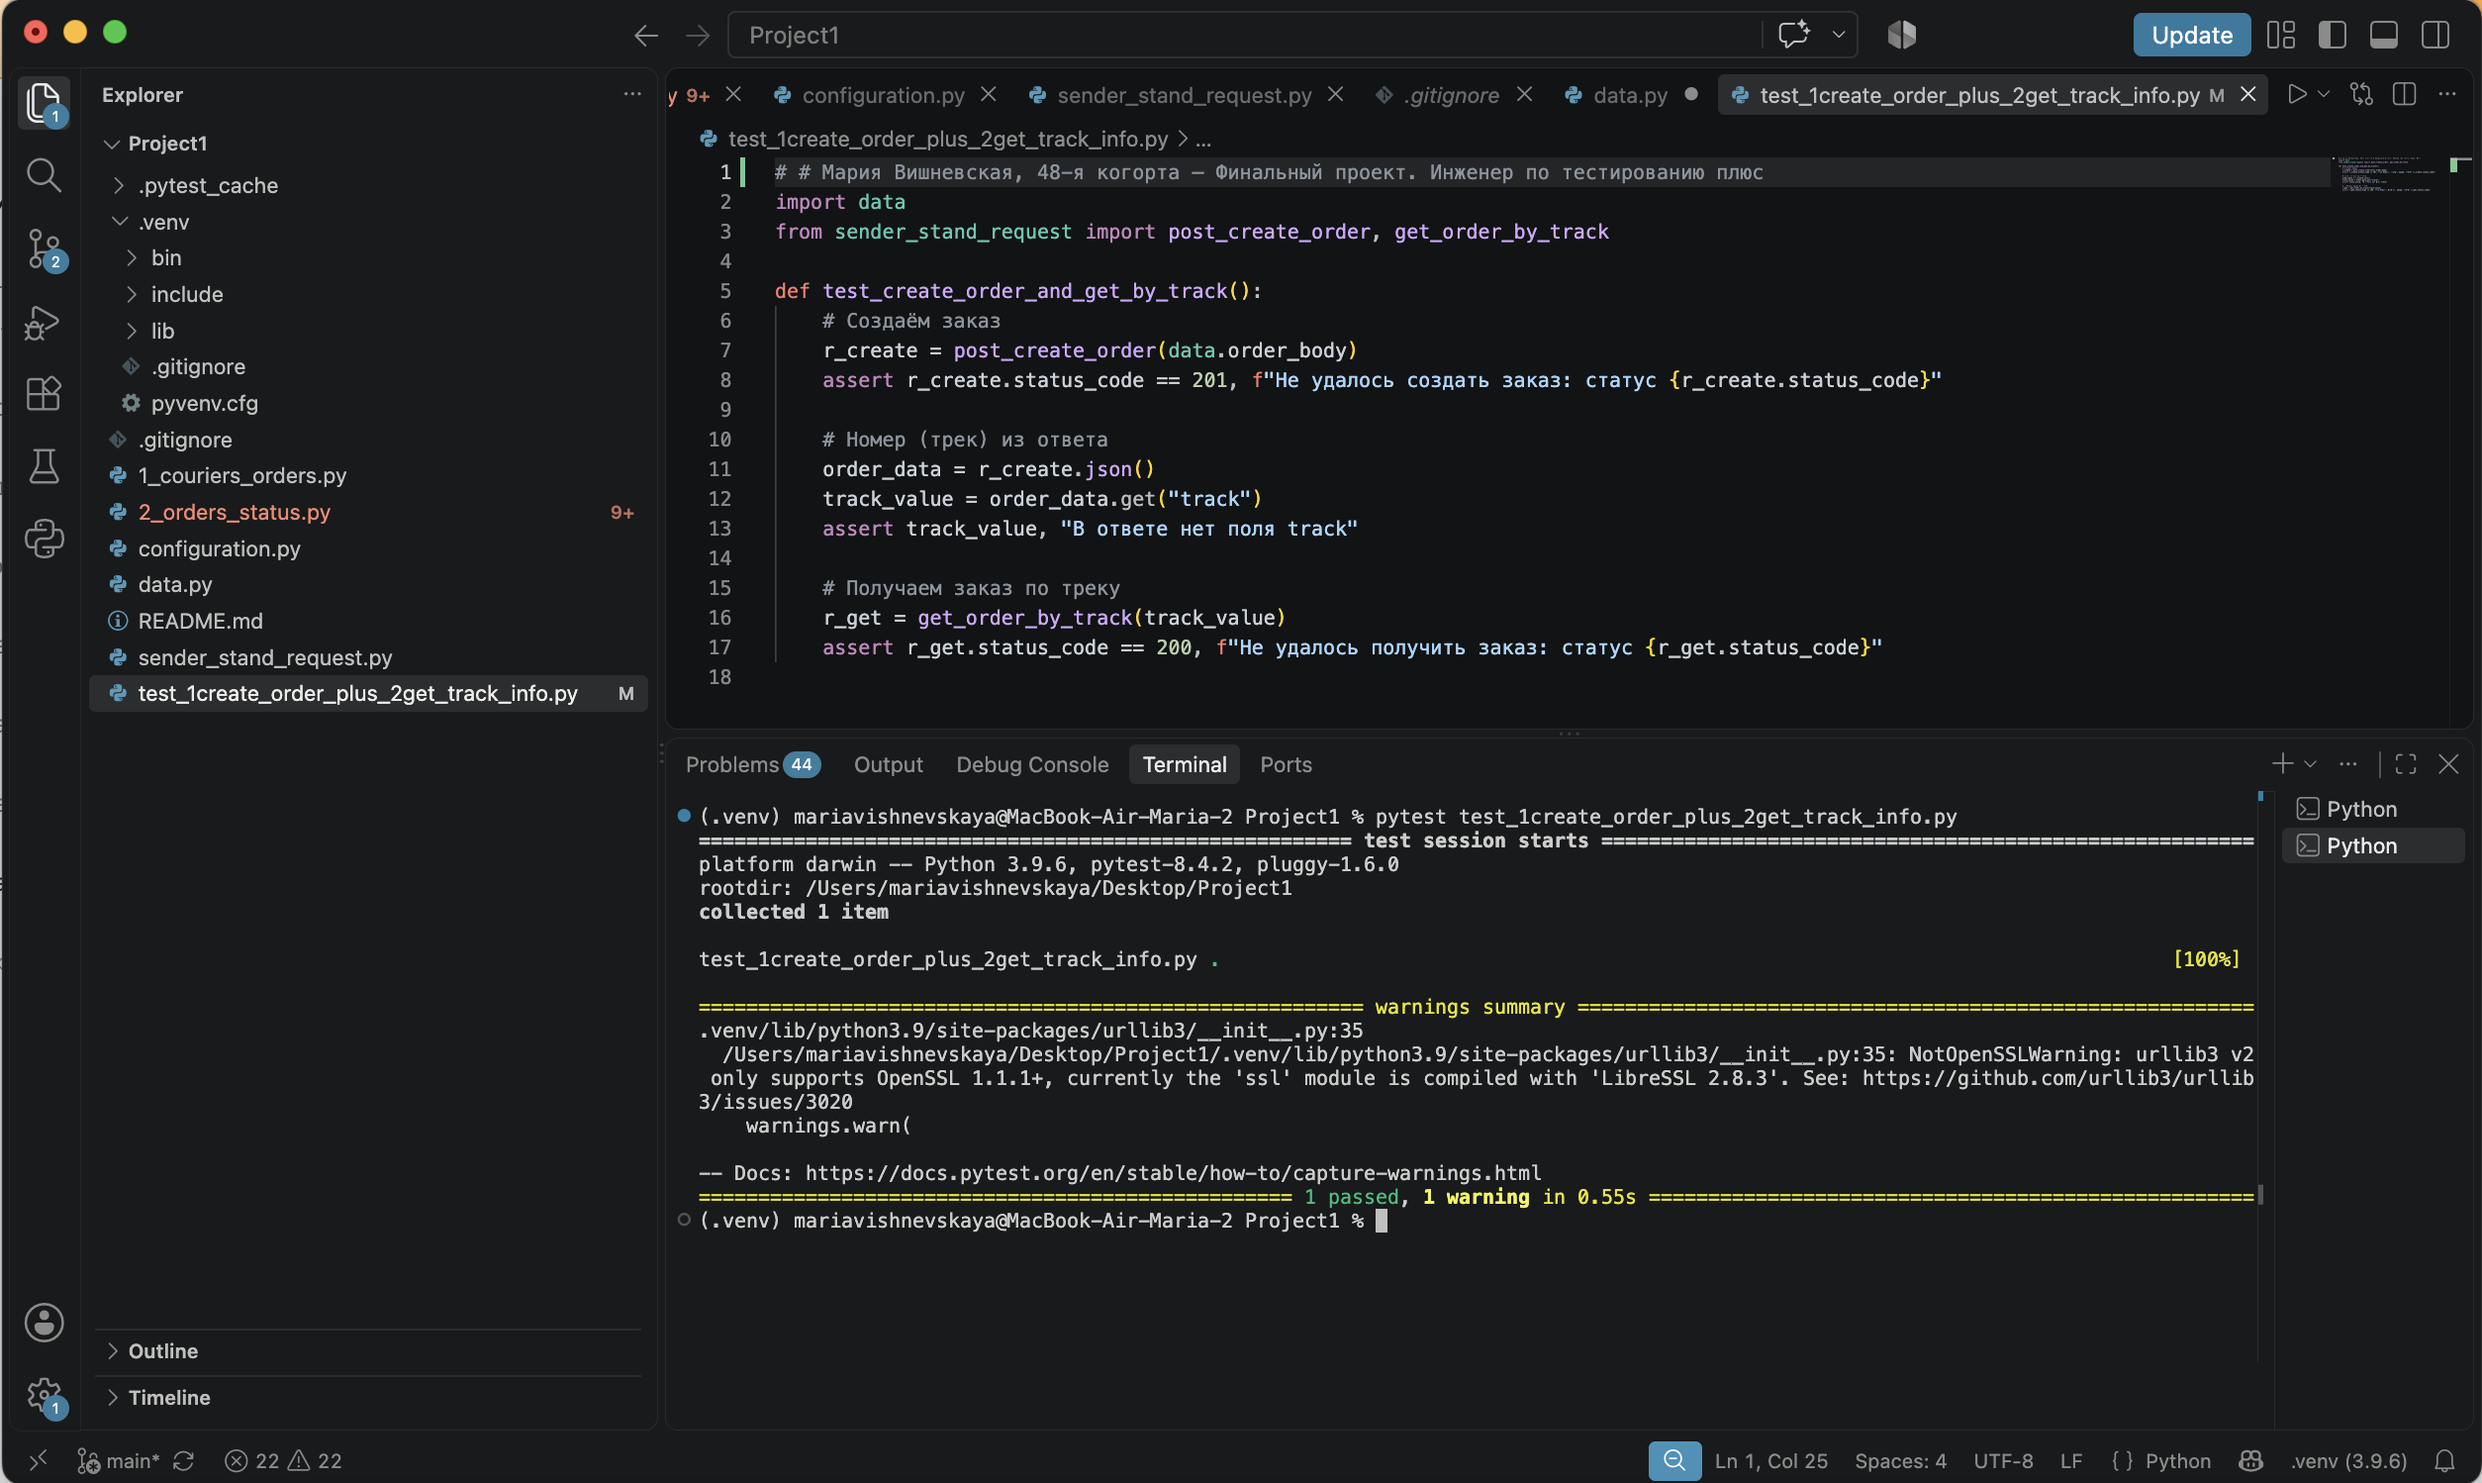
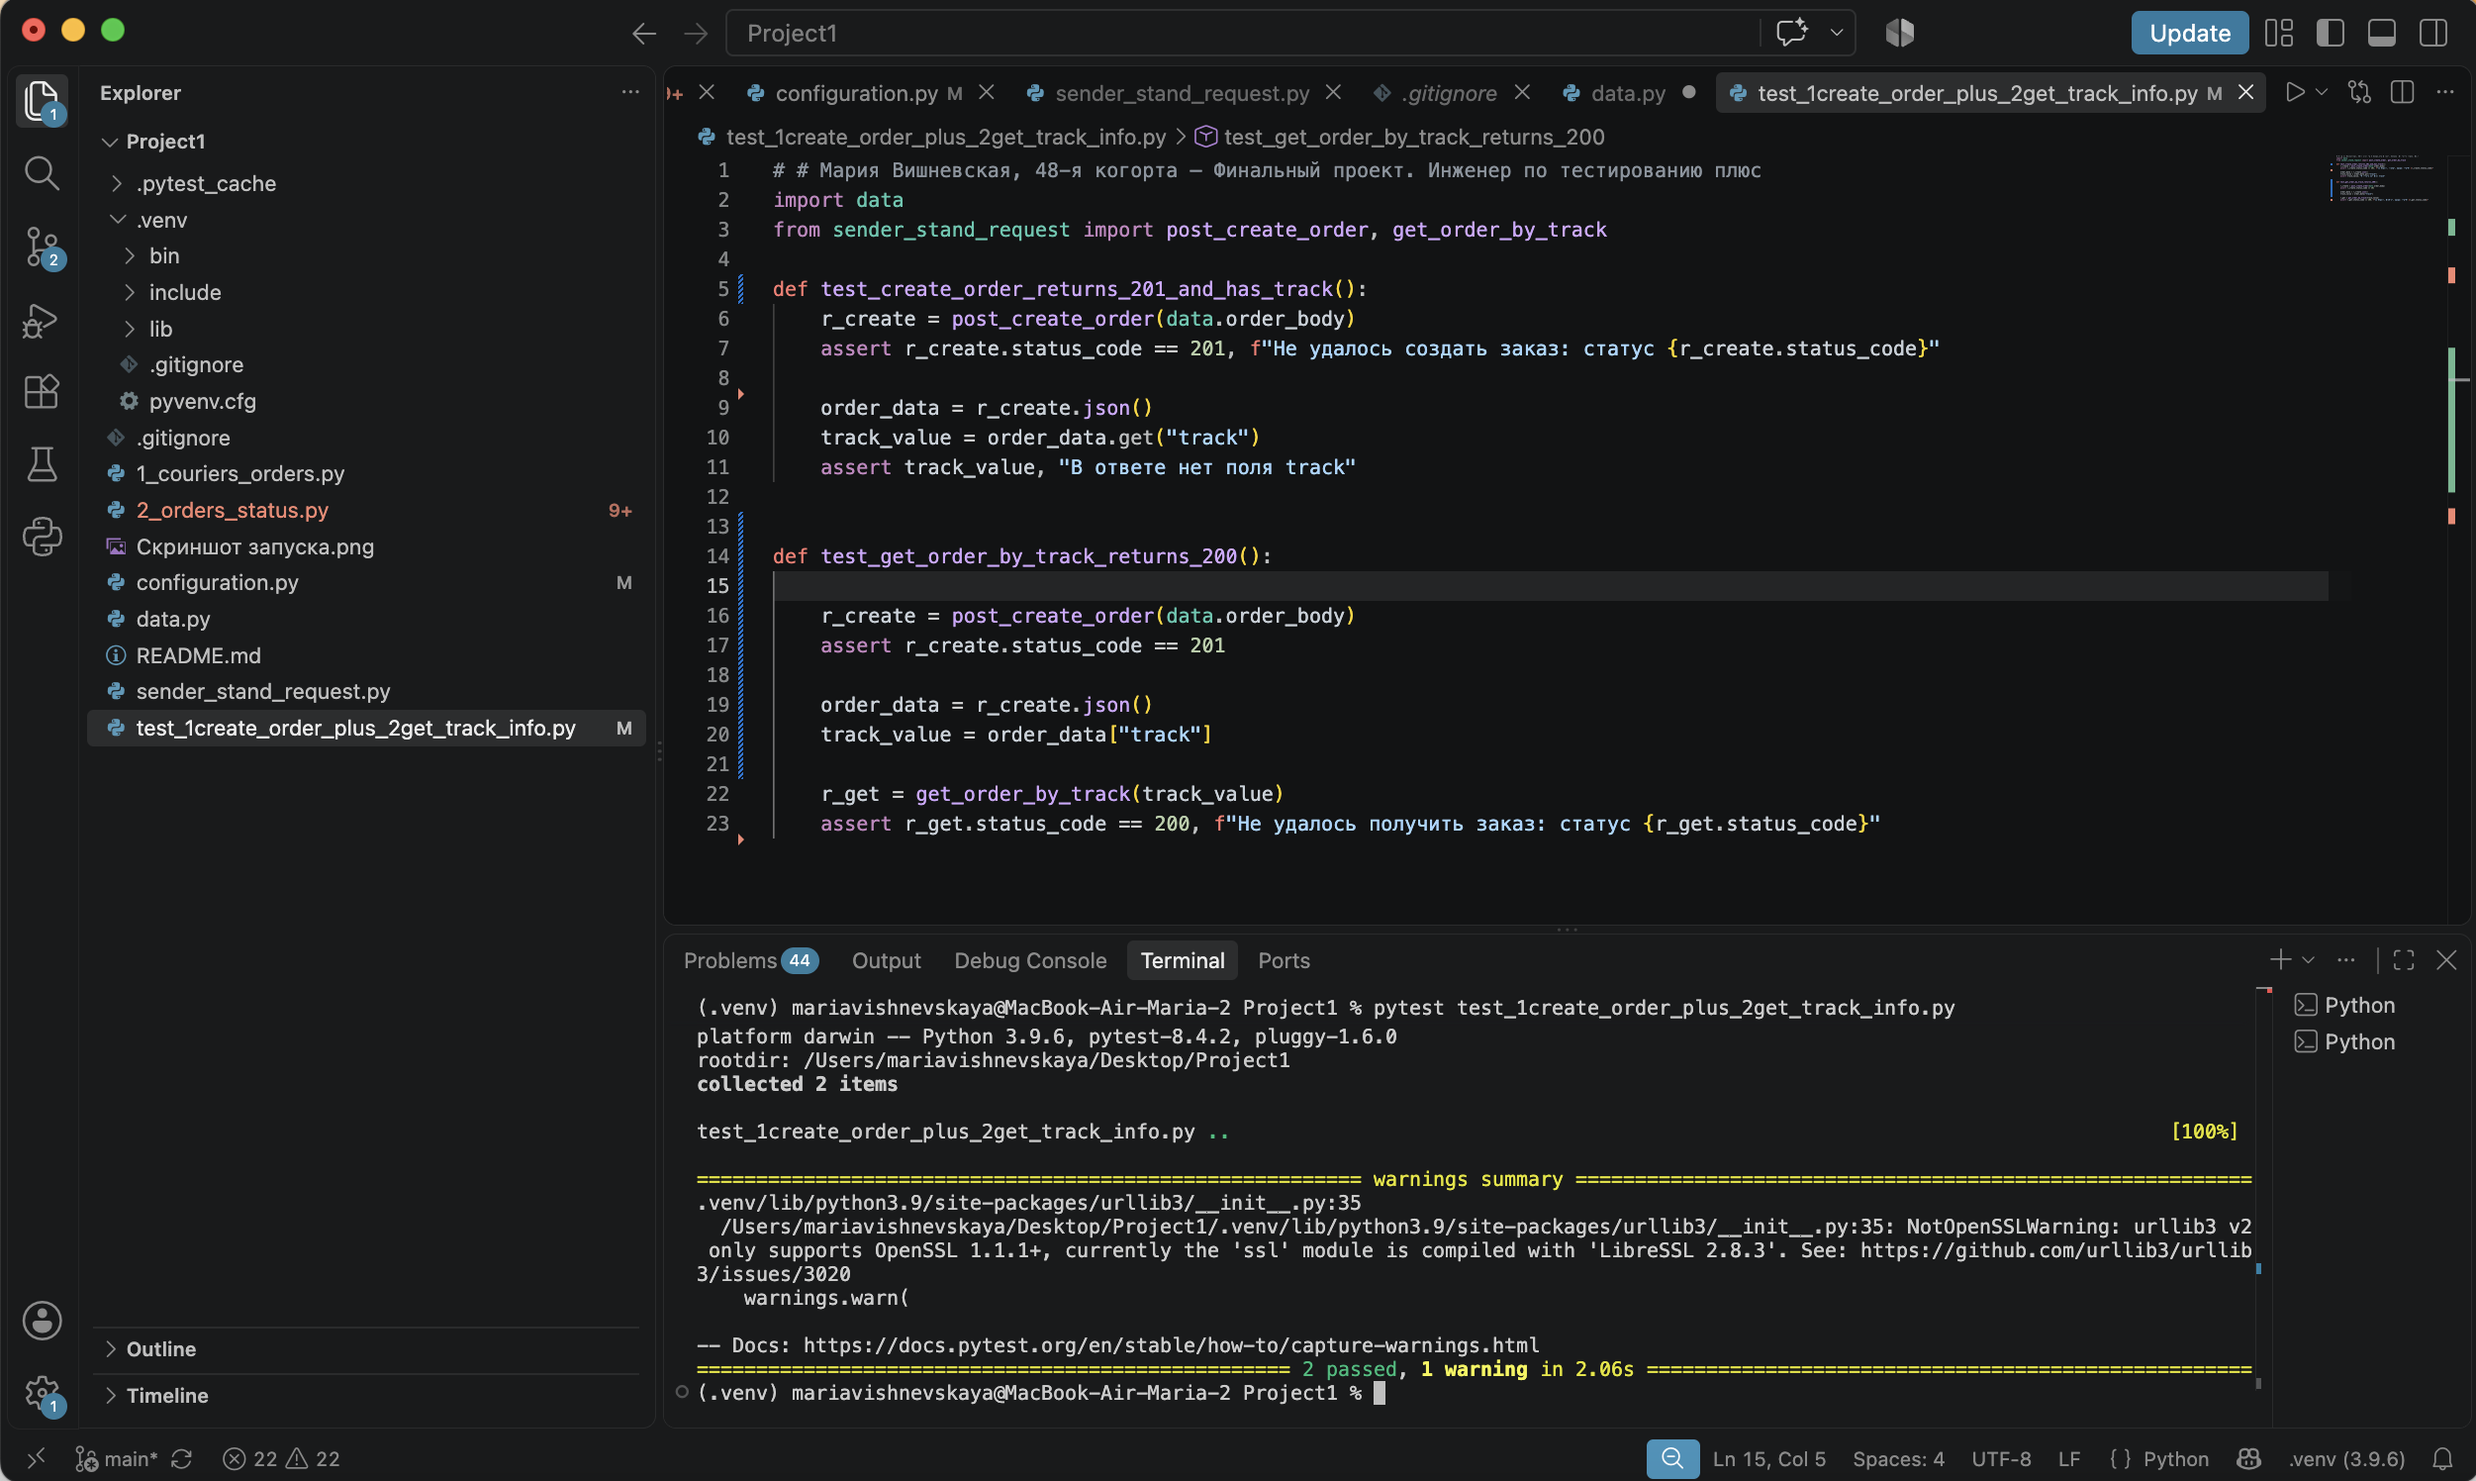
Разделение на атомарные тесты и очистка configuration.py

diff --git a/test_1create_order_plus_2get_track_info.py b/test_1create_order_plus_2get_track_info.py
@@ -2,16 +2,22 @@
 import data
 from sender_stand_request import post_create_order, get_order_by_track
 
-def test_create_order_and_get_by_track():
-    # Создаём заказ
+def test_create_order_returns_201_and_has_track():
     r_create = post_create_order(data.order_body)
     assert r_create.status_code == 201, f"Не удалось создать заказ: статус {r_create.status_code}"
 
-    # Номер (трек) из ответа
     order_data = r_create.json()
     track_value = order_data.get("track")
     assert track_value, "В ответе нет поля track"
 
-    # Получаем заказ по треку
+
+def test_get_order_by_track_returns_200():
+    
+    r_create = post_create_order(data.order_body)
+    assert r_create.status_code == 201
+
+    order_data = r_create.json()
+    track_value = order_data["track"]
+
     r_get = get_order_by_track(track_value)
     assert r_get.status_code == 200, f"Не удалось получить заказ: статус {r_get.status_code}"

diff --git a/configuration.py b/configuration.py
@@ -1,8 +1,2 @@
-URL_SERVICE = "https://d65b68ba-03fa-45bc-8850-5ae27b657075.serverhub.praktikum-services.ru"
+URL_SERVICE = "https://da373348-4000-4905-97ab-a8d4839f96c0.serverhub.praktikum-services.ru"
 REQUEST_TIMEOUT = 10
-
-DOC_PATH = "/docs/"
-LOG_MAIN_PATH = "/api/logs/main/"
-USERS_TABLE_PATH = "/api/db/resources/user_model.csv"
-CREATE_USER_PATH = "/api/v1/users/"
-PRODUCTS_KITS_PATH = "/api/v1/products/kits/"
